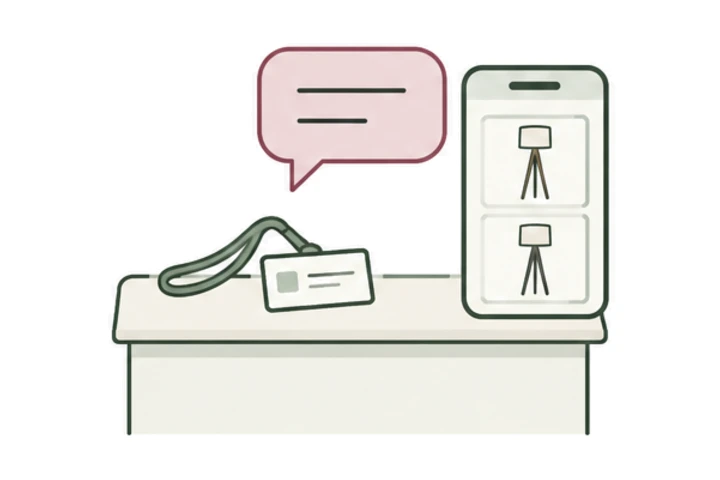
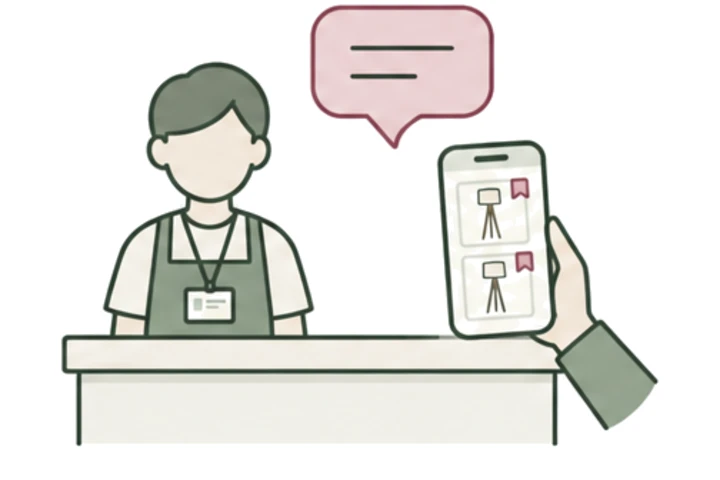
From Inspiration to Aisle: moment 06, With a person, has a person in it
The tile drew a desk, a lanyard and a phone, and nobody. Redrawn as a
store employee behind the counter, apron and badge, with the shopper's
hand holding up the two saved lamps and the rose speech bubble between
them. Drawn in ChatGPT on a 3 x 2 reference rebuilt from the five live
tiles at 0.7x, kept cells back within a pixel, cut at the same scale to
720x480. ?v=1 -> ?v=2 on the tag.

Asset swap: resting.mjs and states.mjs scoped to the page pass at 4084
and 512 measurements before and after.

Changed region(s): [[0.0611, 0.0, 0.9167, 0.9375]]

diff --git a/lab/inspiration-to-aisle.html b/lab/inspiration-to-aisle.html
@@ -381,7 +381,7 @@
               </dl>
             </li>
             <li class="ia-moment" style="--ia-i: 5" data-lost>
-              <img class="ia-scene" src="../img/lab/aisle-moment-6.webp?v=1" alt="" width="720" height="480" loading="lazy" decoding="async" />
+              <img class="ia-scene" src="../img/lab/aisle-moment-6.webp?v=2" alt="" width="720" height="480" loading="lazy" decoding="async" />
               <p class="ia-moment-name"><span class="ia-n" aria-hidden="true">06</span>With a person</p>
               <dl class="ia-lanes">
                 <div class="ia-lane ia-lane--asks" style="--ia-lane: 1"><dt>The shopper asks</dt><dd>&ldquo;Do I explain it all again?&rdquo;</dd></div>
